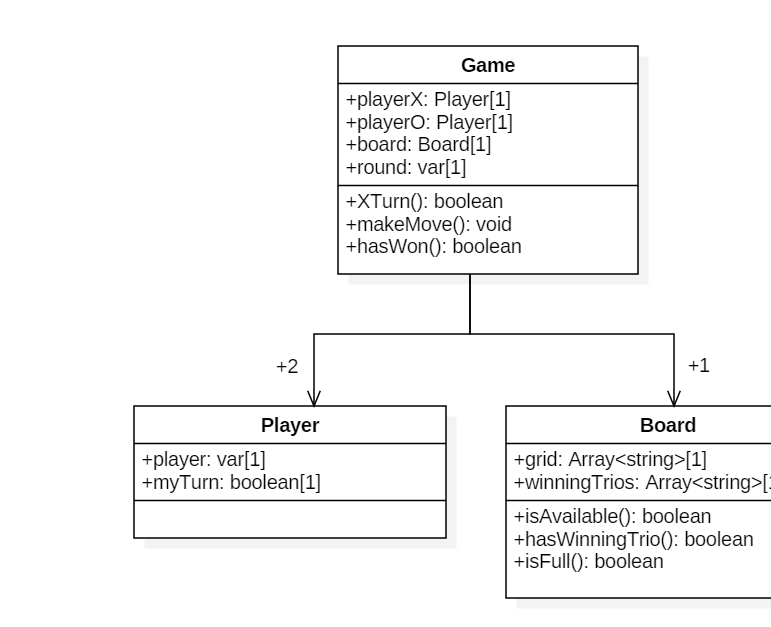
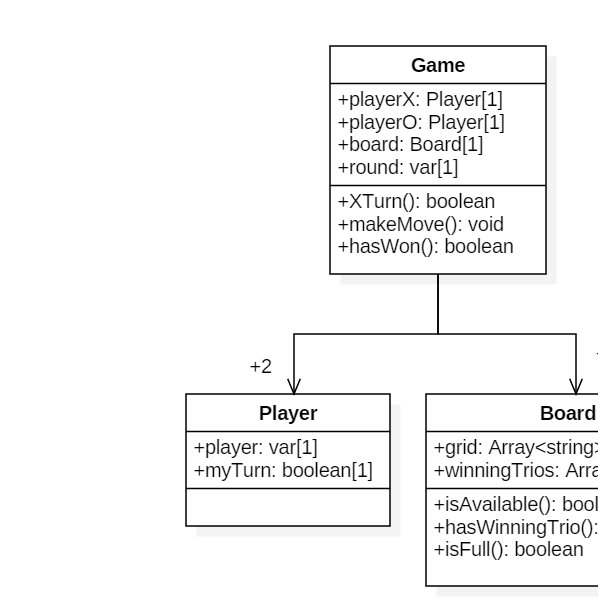
fixed image size and added image label

Changed region(s): [[0.1505, 0.0618, 1.0, 0.9577]]

diff --git a/docs/design_report.md b/docs/design_report.md
@@ -1,5 +1,4 @@
 # Design Report
-Document describing the initial design.
 
 ## Introduction
 This is a simple implementation of the well known game TicTacToe. 
@@ -10,7 +9,7 @@ The focus of this project is to learn the best practices of a source control sys
 
 This system is a simple game of the well known game TicTacToe. 
 The game is a great way to spend time and challenge your friends.
-The user group is very large as everyone can have fun playing TicTacToe from a very young age!
+The user group is very large as everyone can have fun playing TicTacToe from a very young age.
 
 
 ## The design 
@@ -19,4 +18,7 @@ The game was designed to be very simple and easy to navigate.
 In the class diagram in figure 1 all classes of the system are demonstrated with their attributes and functions.
 The focus of the design was that the code should be very clear and loosely coupled.
 
+
 ![Image](./tictactoeclassdiagr.png "tictactoeclassdiagram") 
+*A class diagram for the code design.*
+
